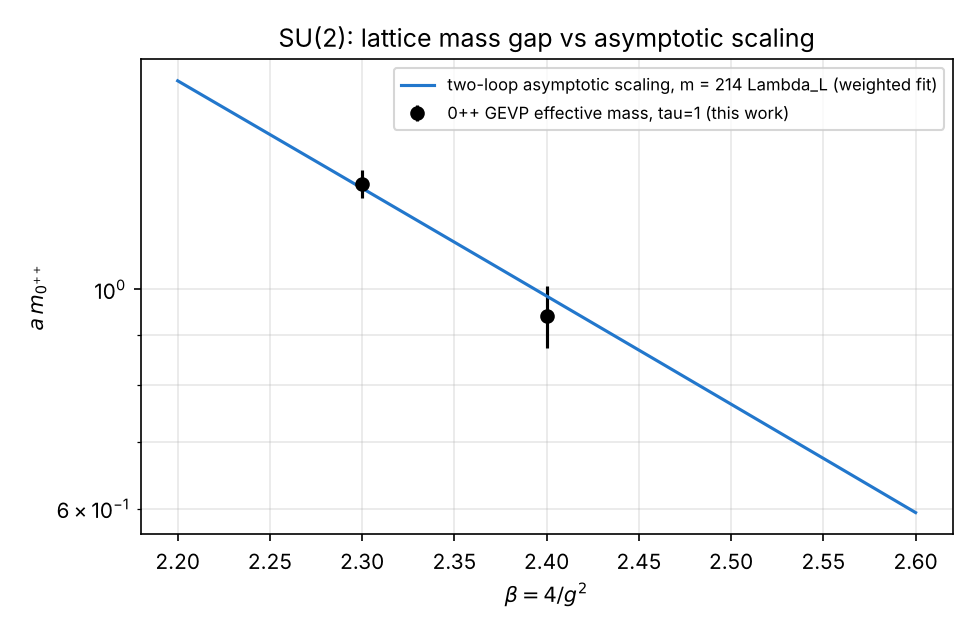
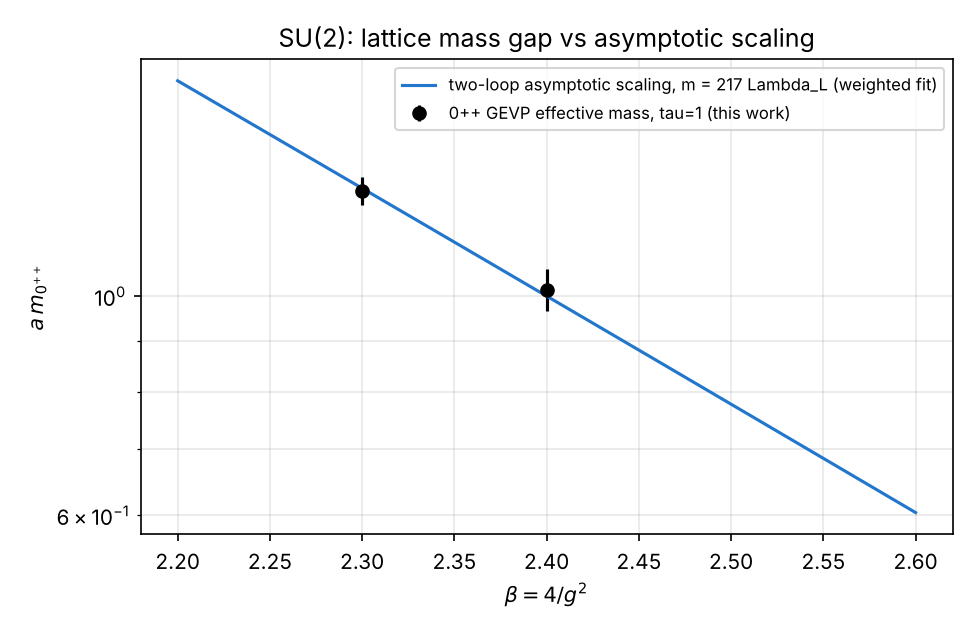
Update partial beta = 2.4 glueball analysis (700 measurements: m/Lambda_L = 221(11)); README scope note
Claude-Session: https://claude.ai/code/session_01WmTJynjgs3u1oYh5GuY9kF

diff --git a/results/gb_su2_b2.4_12x24_partial.md b/results/gb_su2_b2.4_12x24_partial.md
@@ -1,41 +1,41 @@
 # 0++ glueball, variational analysis: SU2 beta=2.4 lattice 12^3 x 24
 
-- runs pooled: 1 (350 = 350 measurements)
-- plaquette = 0.62986 +- 0.00007; tau_int(plaquette) = 1.0 measurements
-- Polyakov loop Re<L> = 0.0002 +- 0.0004 (zero in the confined phase)
+- runs pooled: 1 (700 = 700 measurements)
+- plaquette = 0.62983 +- 0.00007; tau_int(plaquette) = 1.7 measurements
+- Polyakov loop Re<L> = 0.0002 +- 0.0003 (zero in the confined phase)
 - two-loop asymptotic scaling a*Lambda_L = 4.6004e-03
 
-## Creutz ratios (88 configurations with Wilson loops)
+## Creutz ratios (175 configurations with Wilson loops)
 
 | chi(R,R) | value |
 |---|---|
-| chi(2,2) | 0.2548 +- 0.0004 |
-| chi(3,3) | 0.1492 +- 0.0015 |
-| chi(4,4) | 0.1202 +- 0.0068 |
-| chi(5,5) | 0.0996 +- 0.0496 |
-| chi(6,6) | 0.2621 +- 0.2588 |
+| chi(2,2) | 0.2546 +- 0.0004 |
+| chi(3,3) | 0.1497 +- 0.0010 |
+| chi(4,4) | 0.1170 +- 0.0055 |
+| chi(5,5) | 0.1110 +- 0.0349 |
+| chi(6,6) | 0.0821 +- 0.1549 |
 
 ## Effective masses
 
-GEVP with tau0 = 0 over smearing levels [0, 4, 8, 12]; m_eff from the cosh ratio; block jackknife (10 blocks).
+GEVP with tau0 = 0 over smearing levels [0, 4, 8, 12]; m_eff from the cosh ratio; block jackknife (20 blocks).
 
 | tau | lvl 0 | lvl 4 | lvl 8 | lvl 12 | GEVP |
 |---|---|---|---|---|---|
-| 0 | 2.235 +- 0.082 | 1.369 +- 0.046 | 1.221 +- 0.030 | 1.196 +- 0.039 | 1.153 +- 0.031 |
-| 1 | 1.460 +- 0.471 | 1.155 +- 0.104 | 1.020 +- 0.104 | 0.947 +- 0.103 | 0.965 +- 0.084 |
-| 2 | - | 1.385 +- 0.706 | 1.302 +- 0.229 | 1.217 +- 0.223 | 1.186 +- 0.232 |
-| 3 | - | - | - | - | 0.559 +- 0.371 |
+| 0 | 2.167 +- 0.064 | 1.348 +- 0.034 | 1.215 +- 0.024 | 1.198 +- 0.027 | 1.146 +- 0.024 |
+| 1 | 1.353 +- 0.302 | 1.089 +- 0.085 | 1.048 +- 0.071 | 1.017 +- 0.070 | 1.015 +- 0.050 |
+| 2 | 1.164 +- 1.090 | 0.860 +- 0.212 | 0.984 +- 0.134 | 1.036 +- 0.145 | 0.941 +- 0.151 |
+| 3 | 0.876 +- 2.759 | 0.652 +- 0.360 | 0.992 +- 0.502 | 1.297 +- 0.753 | 0.739 +- 0.360 |
 | 4 | - | - | - | - | - |
-| 5 | - | - | - | - | 0.536 +- 0.657 |
-| 6 | - | - | - | - | - |
-| 7 | - | - | - | - | - |
-| 8 | - | - | - | 0.640 +- 1.266 | 0.477 +- 0.514 |
+| 5 | - | - | - | - | 0.362 +- 0.329 |
+| 6 | - | - | - | 0.478 +- 0.833 | - |
+| 7 | - | - | - | 0.571 +- 2.421 | - |
+| 8 | - | - | - | - | - |
 | 9 | - | - | - | - | - |
-| 10 | - | - | - | - | 1.861 +- 1.460 |
+| 10 | - | - | - | - | 1.388 +- 1.321 |
 | 11 | - | - | - | - | - |
 
-GEVP effective mass at tau = 1: a*m = 0.965 +- 0.084  (an estimate of an upper bound on the gap); in units of the asymptotic-scaling scale: m/Lambda_L = 210 +- 18.
-Ratio to the largest Creutz ratio: a*m / sqrt(chi(6,6)) = 1.88 (chi(6,6) over-estimates sigma at small R, so this under-estimates m/sqrt(sigma)).
+GEVP effective mass at tau = 1: a*m = 1.015 +- 0.050  (an estimate of an upper bound on the gap); in units of the asymptotic-scaling scale: m/Lambda_L = 221 +- 11.
+Ratio to the largest Creutz ratio: a*m / sqrt(chi(6,6)) = 3.54 (chi(6,6) over-estimates sigma at small R, so this under-estimates m/sqrt(sigma)).
 
-**Partial run:** a snapshot of the first 350 of 2000 planned measurements of one chain (seed 201), analysed with 10 jackknife
+**Partial run:** a snapshot of the first 700 of 2000 planned measurements of one chain (seed 201), analysed with 20 jackknife
 blocks; preliminary. Command in `results/glueball-su2.md`; the chain resumes from its checkpoint when rerun.

diff --git a/results/glueball-su2.md b/results/glueball-su2.md
@@ -7,7 +7,7 @@ Method: zero-momentum time-slice sums of spatial plaquettes at several APE-smear
 | beta | lattice | meas. (runs) | plaquette | a m_eff(tau=0) | a m_eff(tau=1) | a m_eff(tau=2) | chi(R,R), largest R with <10% error | a Lambda_L (2-loop) | m/Lambda_L (tau=1) |
 |---|---|---|---|---|---|---|---|---|---|
 | 2.3 | 8^3 x 16 | 8000 (2) | 0.60234 +- 0.00006 | 1.351 +- 0.013 | 1.278 +- 0.041 | 1.148 +- 0.112 | 0.1775 +- 0.0067 (R=4) | 5.914e-03 | 216 +- 7 |
-| 2.4 | 12^3 x 24 | 350 (1) | 0.62986 +- 0.00007 | 1.156 +- 0.032 | 0.941 +- 0.068 | 1.141 +- 0.232 | 0.1202 +- 0.0079 (R=4) | 4.600e-03 | 205 +- 15 |
+| 2.4 | 12^3 x 24 | 700 (1, partial) | 0.62983 +- 0.00007 | 1.146 +- 0.024 | 1.015 +- 0.050 | 0.941 +- 0.151 | 0.1170 +- 0.0055 (R=4) | 4.600e-03 | 221 +- 11 |
 
 Asymptotic scaling test (conjecture G2 in lattice form): if the continuum limit has a mass gap, a*m(beta)/a*Lambda_L(beta) tends to a positive constant as beta grows. The Wilson action is known to approach asymptotic scaling slowly (ratios of physical quantities scale much earlier than either quantity matches the two-loop formula), so moderate drifts of m/Lambda_L at these couplings are expected.
 
@@ -20,11 +20,11 @@ python3 scripts/glueball.py --group su2 --beta 2.3 --shape 16 8 8 8 --ntherm 500
 python3 scripts/glueball.py --group su2 --beta 2.4 --shape 24 12 12 12 --ntherm 400 --nmeas 2000 --nor 4 --levels 0 4 8 12 --maxloop 6 --wloop-every 4 --seed 201 --out ../results/gb_su2_b2.4_12x24_s201.npz
 ```
 
-The two beta = 2.3 chains are complete. The beta = 2.4 row is **partial and preliminary**: a snapshot of the first 350 of
-2000 planned measurements (about 10 s per measurement here); its error bars come from 20 blocks of 17 measurements and may be
+The two beta = 2.3 chains are complete. The beta = 2.4 row is **partial and preliminary**: a snapshot of the first 700 of
+2000 planned measurements (about 10 s per measurement here); its error bars come from 20 blocks of 35 measurements and may be
 underestimated. The chain checkpoints and can be completed by rerunning the same command (on a cluster: `lattice/slurm/`).
 
 Reading (Numerical, a compass and not evidence): m/Lambda_L is the same within errors at beta = 2.3 and 2.4 (216 +- 7 and
-205 +- 15), as asymptotic scaling predicts, and the effective masses decrease with tau, as positivity of the transfer matrix
+221 +- 11), as asymptotic scaling predicts, and the effective masses decrease with tau, as positivity of the transfer matrix
 requires. With the commonly quoted a*sqrt(sigma) ~ 0.37 at beta = 2.3 (verify) this would be m/sqrt(sigma) ~ 3.5, inside
 the range 3.4-3.8 recorded in docs/02 §2.4; the Creutz ratio chi(4,4) over-estimates sigma on these small loops.

diff --git a/README.md b/README.md
@@ -20,7 +20,7 @@ was established, what failed, and what is next.
 | `docs/03-research-program.md` | Principles, milestones (Tiers 0–3), the crossover problem in mathematical form, an exact reformulation of the gap as a Markov-chain spectral gap, triage of mechanisms, anti-patterns, next steps |
 | `theory/lattice-foundations.tex` | Rigorous monograph: Wilson measure, gauge invariance, reflection positivity, transfer matrix and Hamiltonian, gap ⇔ clustering, ground-state chain, reduction theorem, strong-coupling mass gap (self-contained Dobrushin proof), polymer representation and cluster expansion |
 | `theory/infinite-volume-strong-coupling.tex` | Part II: the infinite-volume lattice theory. For every $\beta$, limit points are reflection-positive Gibbs measures with an OS transfer operator, so the infinite-volume gap $m(\mu)$ is defined. For $\beta<\beta_*(d)=\operatorname{artanh}\frac1{6(d-1)}$: unique Gibbs measure, convergence with rate, invariance under all gauge transformations, clustering, global Markov property, transfer operator $=$ a reversible Markov chain of time slices, unique vacuum, mass gap $\ge\log(1/(6(d-1)\tanh\beta))$ |
-| `theory/mass-gap-strong-coupling.tex` | Part IV: for $d\ge3$ and $\beta<\beta_0(d)$ the infinite- and finite-volume mass gaps are $\ge4\log(1/\beta)-O(1)$, the correct leading coefficient of the strong-coupling expansion (duplicate variables plus a "four plaquettes per time layer" lemma) |
+| `theory/mass-gap-strong-coupling.tex` | Part IV: for $d\ge3$ and $\beta<\beta_0(d)$ the infinite-volume mass gap, and the finite-volume gaps for spatial sides $\ge4$, are $\ge4\log(1/\beta)-O(1)$, the correct leading coefficient of the strong-coupling expansion (duplicate variables plus a "four plaquettes per time layer" lemma) |
 | `theory/area-law-strong-coupling.tex` | Part III: Wilson's area law at strong coupling for every representation of non-zero $N$-ality (and the same for $U(1)$: strong-coupling confinement is not non-abelian) |
 | `lattice/` | `ymlattice`: tested SU(2)/SU(3) Wilson-action Monte Carlo (heat bath, overrelaxation, Cabibbo–Marinari), observables (Wilson loops, Polyakov loops, APE smearing, $0^{++}$ correlators), exact formulas (character coefficients, exact 2-d solution, strong/weak-coupling series, asymptotic scaling) |
 | `results/` | Validation data and analyses produced by the scripts in `lattice/scripts` |

diff --git a/journal/2026-11-09.md b/journal/2026-11-09.md
@@ -87,11 +87,11 @@ $SU(2)$ Wilson action, $0^{++}$ glueball by GEVP over four APE-smearing levels (
 | $\beta$ | lattice | measurements | plaquette | $a\,m_{\rm eff}(\tau=1)$ | $m/\Lambda_L$ |
 |---|---|---|---|---|---|
 | 2.3 | $8^3\times16$ | $2\times4000$ | 0.60234(6) | 1.278(41) | 216(7) |
-| 2.4 | $12^3\times24$ | 350 (partial) | 0.62986(7) | 0.941(68) | 205(15) |
+| 2.4 | $12^3\times24$ | 700 (partial) | 0.62983(7) | 1.015(50) | 221(11) |
 
 Numerical, a compass and not evidence: $m/\Lambda_L$ agrees within errors at the two couplings, as asymptotic scaling
 (the lattice form of (G2)) predicts, and the effective masses decrease with $\tau$, as positivity of the transfer matrix
-requires (Part II, Remark on numerics). The $\beta=2.4$ chain is incomplete (350 of 2000 measurements, about 10 s per
+requires (Part II, Remark on numerics). The $\beta=2.4$ chain is incomplete (700 of 2000 measurements at the time of writing, about 10 s per
 measurement in the container); it resumes from its checkpoint, but raw files and checkpoints are not committed, so in a new
 container it must be restarted (better on a cluster, `lattice/slurm/`).
 
